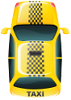
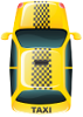
Pthreads and gui for the lane detection routine is done.
Images has been modified to be centered in the lane

diff --git a/graphic-highway/vehicle.cpp b/graphic-highway/vehicle.cpp
@@ -14,8 +14,10 @@ struct vehicle_t createVehicle(int type, int max_speed)
 
 	//Initialize lane and position, which will be changed by the go function
 	vehicle.position.lane = 0;
-	//0 is the center of the lane, -1 left, 1 right, -2 or 2 lane overpassed (so the system failed)
-	vehicle.position.x_pos = 0;
+	//1 is the center of the lane, 0 left, 2 right, 3 lane overpassed (so the system failed)
+	vehicle.position.x_pos = 1;
+	//vehicle.position.x_pos = 0;
+
 	vehicle.position.y_pos = -1;
 
 	vehicle.should_correct_alignment = false;
@@ -25,7 +27,7 @@ struct vehicle_t createVehicle(int type, int max_speed)
 
 void position_switch(int vehicle_id, struct highway_t *h, int lane)
 {
-	int lane_vehicle, x_pos, y_pos, new_y_pos, actual_speed, random_int;
+	int lane_vehicle, x_pos, y_pos, new_x_pos, new_y_pos, actual_speed, random_int;
 	struct position_t pos_vehicle;
 
 	pos_vehicle = h->vehicles[vehicle_id].position;
@@ -34,27 +36,35 @@ void position_switch(int vehicle_id, struct highway_t *h, int lane)
 	y_pos = pos_vehicle.y_pos; //-1 initially
 
 	//random between 1 and 10
-	random_int = rand() % 10 + 1;
-	if(random_int < 8)
+	random_int = rand() % 500 + 1;
+	if(random_int < 5)
 	{
-		switch(pos_vehicle.x_pos)
+		//if it is in 1 or 3 and the vehicle haven't detected the disalignment,
+		//the system have failed
+		switch(x_pos)
 		{
-		case -1:
-			x_pos = x_pos -1;
+		case 0:
+			new_x_pos = 3;
+			break;
+		case 2:
+			new_x_pos = 3;
 			break;
 		case 1:
-			x_pos = xpos + 1;
-			break;
-		case 0:
-			x_pos = (random_int > 4) ? -1 : 1;
+			new_x_pos = (random_int > 2) ? 0 : 2;
 		}
+	}
+	else
+	{
+		new_x_pos = x_pos;
 	}
 
 	if(h->vehicles[vehicle_id].should_correct_alignment)
 	{
-		x_pos = 0;
+		new_x_pos = 1;
 		h->vehicles[vehicle_id].should_correct_alignment = false;
 	}
+
+	//new_x_pos = 1;
 
 	actual_speed = h->vehicles[vehicle_id].actual_speed;
 
@@ -66,27 +76,29 @@ void position_switch(int vehicle_id, struct highway_t *h, int lane)
 	{
 		h->road[lane_vehicle][x_pos][y_pos] = -1;
 	}
-	h->road[lane][x_pos][new_y_pos] = vehicle_id; //updating the new position in the road's array
+	h->road[lane][new_x_pos][new_y_pos] = vehicle_id; //updating the new position in the road's array
 
 	if(h->vehicles[vehicle_id].type == TRUCK)
 	{
 		h->road[lane_vehicle][x_pos][y_pos+1] = -1;
-		h->road[lane][x_pos][new_y_pos+1] = vehicle_id;
+		h->road[lane][new_x_pos][new_y_pos+1] = vehicle_id;
 	}
 
 	h->vehicles[vehicle_id].position.lane = lane;
+	h->vehicles[vehicle_id].position.x_pos = new_x_pos;
 	h->vehicles[vehicle_id].position.y_pos = new_y_pos;
 	printf("PS Movimento veicolo %d nella posizione: (%d, %d) corsia %d, a velocità: %d\n",
-		   vehicle_id, pos_vehicle.x_pos, h->vehicles[vehicle_id].position.y_pos,
+		   vehicle_id, h->vehicles[vehicle_id].position.x_pos, h->vehicles[vehicle_id].position.y_pos,
 		   h->vehicles[vehicle_id].position.lane, h->vehicles[vehicle_id].actual_speed);
 }
 
 //Check if there is a vehicle in front on a specific lane, and return its id
 int check_front(int vehicle_id, struct highway_t *h, int lane_to_check, bool for_the_start)
 {
-	int i, index_to_check, x_pos, y_pos, lane_vehicle, distance_to_check;
-	int front_vehicle_id = -1;
+	int i, j, index_to_check, to_add, x_pos, y_pos, lane_vehicle, distance_to_check;
 	struct position_t pos_vehicle;
+	int front_vehicle_id = -1;
+	bool exit_for = false;
 
 	pos_vehicle = h->vehicles[vehicle_id].position;
 	//x_pos = pos_vehicle.x_pos;
@@ -94,11 +106,64 @@ int check_front(int vehicle_id, struct highway_t *h, int lane_to_check, bool for
 	y_pos = pos_vehicle.y_pos; //-1
 	lane_vehicle = pos_vehicle.lane;
 
-	distance_to_check = h->vehicles[vehicle_id].min_security_distance+12;
+	to_add = (lane_to_check < lane_vehicle) ? 15 : 12;
+	//to_add = (lane_to_check != lane_vehicle) ? 15 : 12;
+	distance_to_check = h->vehicles[vehicle_id].min_security_distance+to_add;
+	//distance_to_check = h->vehicles[vehicle_id].min_security_distance+4;
 
 	//If I'm checking the right lane, I should consider also the possible vehicles behind me
+	//i = (lane_to_check < lane_vehicle) ? -2 : 1;
 	i = (lane_to_check < lane_vehicle) ? -2 : 1;
-	for(i; i <= distance_to_check; i++)
+	//i = (lane_to_check != lane_vehicle) ? -2 : 1;
+
+	for(i; !exit_for && i <= distance_to_check; i++)
+	{
+		index_to_check = y_pos+i;
+		for(j = 0; j < 4; j++)
+		{
+			if(h->road[lane_to_check][j][index_to_check] != -1 && h->road[lane_to_check][j][index_to_check] != vehicle_id)
+			{
+				front_vehicle_id = h->road[lane_to_check][j][index_to_check];
+
+				if(!for_the_start)
+				{
+					printf("Check Front Veicolo %d: Nella posizione %d, a distanza %d da me,  c'è %d \n", vehicle_id, index_to_check, i, h->road[lane_to_check][x_pos][index_to_check]);
+				}
+				else
+				{
+					printf("In posizione %d c'è già %d \n", index_to_check, h->road[lane_to_check][j][index_to_check]);
+				}
+
+				exit_for = true;
+			}
+		}
+	}
+	return front_vehicle_id;
+}
+
+int check_front_no_ubriaco(int vehicle_id, struct highway_t *h, int lane_to_check, bool for_the_start)
+{
+	int i, j, to_add, index_to_check, x_pos, y_pos, lane_vehicle, distance_to_check;
+	struct position_t pos_vehicle;
+	int front_vehicle_id = -1;
+	bool exit_for = false;
+
+	pos_vehicle = h->vehicles[vehicle_id].position;
+	//x_pos = pos_vehicle.x_pos;
+	x_pos = 1; //should be managed...
+	y_pos = pos_vehicle.y_pos; //-1
+	lane_vehicle = pos_vehicle.lane;
+
+	to_add = (lane_to_check < lane_vehicle) ? 15 : 12;
+	//to_add = (lane_to_check != lane_vehicle) ? 15 : 12;
+	distance_to_check = h->vehicles[vehicle_id].min_security_distance+to_add;
+	//distance_to_check = h->vehicles[vehicle_id].min_security_distance+4;
+
+	//If I'm checking the right lane, I should consider also the possible vehicles behind me
+	//i = (lane_to_check < lane_vehicle) ? -2 : 1;
+	i = (lane_to_check < lane_vehicle) ? -2 : 1;
+	//i = (lane_to_check != lane_vehicle) ? -2 : 1;
+	for(i; !exit_for && i <= distance_to_check; i++)
 	{
 		index_to_check = y_pos+i;
 		if(h->road[lane_to_check][x_pos][index_to_check] != -1 && h->road[lane_to_check][x_pos][index_to_check] != vehicle_id)
@@ -114,8 +179,9 @@ int check_front(int vehicle_id, struct highway_t *h, int lane_to_check, bool for
 				printf("In posizione %d c'è già %d \n", index_to_check, h->road[lane_to_check][x_pos][index_to_check]);
 			}
 
-			break; //maybe not safety for RT
+			exit_for = true;
 		}
 	}
 	return front_vehicle_id;
 }
+

diff --git a/graphic-highway/threads_controller.cpp b/graphic-highway/threads_controller.cpp
@@ -53,8 +53,7 @@ void go(int vehicle_id, struct highway_t *h)//BLOCCANTE
 
 	while(vehicle_id != h->next_vehicle)
 	{
-		pthread_cond_signal(&h->priv_Vehicle[h->next_vehicle]);//FORSE TROPPO FORZATO COSI...
-
+		//pthread_cond_signal(&h->priv_Vehicle[h->next_vehicle]);//FORSE TROPPO FORZATO COSI...
 		pthread_cond_wait(&h->priv_Vehicle[vehicle_id], &h->mutex);
 	}
 
@@ -63,7 +62,8 @@ void go(int vehicle_id, struct highway_t *h)//BLOCCANTE
 		h->highway_start = true;
 	}
 
-	if(y_pos < 5)//Check that should be done for the first portion of road
+	//if(y_pos == -1)
+	if(y_pos < 5)//Check that should be done for the first portion of the road
 	{
 		can_start = check_front(vehicle_id, h, lane_vehicle, true);
 
@@ -139,6 +139,7 @@ void check_front_distance(int vehicle_id, struct highway_t *h)//MAI BLOCCANTE
 
 	pos_vehicle = h->vehicles[vehicle_id].position;
 
+	//if(pos_vehicle.y_pos != -1)
 	if(pos_vehicle.y_pos > 4)//if we are already going
 	{
 
@@ -150,7 +151,7 @@ void check_front_distance(int vehicle_id, struct highway_t *h)//MAI BLOCCANTE
 
 			if(h->vehicles[vehicle_id].speed_limited)
 			{
-				h->vehicles[nearest_vehicle_in_front].speed_limited = 0;
+				h->vehicles[vehicle_id].speed_limited = 0;
 			}
 
 			//Check if I can turn right
@@ -170,7 +171,9 @@ void check_front_distance(int vehicle_id, struct highway_t *h)//MAI BLOCCANTE
 			}
 		}
 		else if(h->vehicles[vehicle_id].can_overtake
-				&& h->vehicles[nearest_vehicle_in_front].actual_speed < h->vehicles[vehicle_id].actual_speed) //A vehicle is near and I'm a car or motorcycle
+				&& (h->vehicles[nearest_vehicle_in_front].actual_speed < h->vehicles[vehicle_id].actual_speed
+					|| h->vehicles[vehicle_id].speed_limited)
+				) //A vehicle is near and I'm a car or motorcycle
 		{
 			how_close = pos_vehicle.y_pos - h->vehicles[nearest_vehicle_in_front].position.y_pos;
 			printf("A distanza %d, c'è %d, cerco di superarlo...\n", how_close, nearest_vehicle_in_front);
@@ -186,12 +189,12 @@ void check_front_distance(int vehicle_id, struct highway_t *h)//MAI BLOCCANTE
 				//Adapt the speed
 				speed_to_adapt = h->vehicles[nearest_vehicle_in_front].actual_speed;
 				h->vehicles[vehicle_id].actual_speed = speed_to_adapt;
-				h->vehicles[nearest_vehicle_in_front].speed_limited = 1;
+				h->vehicles[vehicle_id].speed_limited = 1;
 			}
 			else
 			{
 				//overtake
-				h->vehicles[nearest_vehicle_in_front].speed_limited = 0;
+				h->vehicles[vehicle_id].speed_limited = 0;
 				h->vehicles[vehicle_id].movement_type = OVERTAKE;
 
 			}
@@ -223,12 +226,12 @@ void lane_detection(int vehicle_id, struct highway_t *h)//MAI BLOCCANTE
 	pos_vehicle = h->vehicles[vehicle_id].position;
 	lane_vehicle = pos_vehicle.lane;
 
-	//0 is the center of the lane, -1 left, 1 right
+	//1 is the center of the lane, 0 left, 2 right
 	x_pos = pos_vehicle.x_pos;
 	y_pos = pos_vehicle.y_pos;
 
-	//if x_pos is -1 or 1, so not in the middle of the lane, the position should be corrected
-	if(x_pos != 0)
+	//if x_pos is 0 or 2, so not in the middle of the lane, the position should be corrected
+	if(x_pos != 1)
 	{
 		h->vehicles[vehicle_id].should_correct_alignment = true;
 	}
@@ -264,8 +267,8 @@ void *go_routine(void *id)
 	for (;;) {
 		printf("Go, veicolo %d\n", vehicle_id);
 		go(vehicle_id,&highway);
-		pausetta(100);
-		//pausetta(200);
+		//pausetta(100);
+		pausetta(160);
 		//pausetta(500);
 	}
 }
@@ -277,21 +280,22 @@ void *check_front_distance_routine(void *id)
 	for (;;) {
 		printf("Veicolo %d: controllo distanza\n", vehicle_id);
 		check_front_distance(vehicle_id,&highway);
-		pausetta(50);
-		//pausetta(100);
+		//pausetta(50);
+		pausetta(80);
 		//pausetta(250);
 	}
 
 }
 
-void *lane_detection_routine(void id)
+void *lane_detection_routine(void *id)
 {
 	long vehicle_id = (long) id;
 	//starting the routine
 	for (;;) {
 		printf("Vehicle %d: lane detection routine\n", vehicle_id);
 		lane_detection(vehicle_id,&highway);
-		pausetta(150);
+		//pausetta(200);
+		pausetta(200);
 	}
 }
 
@@ -322,6 +326,7 @@ void initThreads()
   {
 	  pthread_create(&p, &attr, go_routine, (void *)i);
 	  pthread_create(&p, &attr, check_front_distance_routine,  (void *)i);
+	  pthread_create(&p, &attr, lane_detection_routine,  (void *)i);
   }
 
   pthread_attr_destroy(&attr);

diff --git a/graphic-highway/Graphics/highway_gui.cpp b/graphic-highway/Graphics/highway_gui.cpp
@@ -22,11 +22,11 @@ void HighwayGui::start(){
 		{
 			image = QImage(":/images/img/truck.png");
 		}
-		else if(i<25)
+		else if(i<23)
 		{
 			image = QImage(":/images/img/motorcycle.png");
 		}
-		else if(i == 40)
+		else if(i == 25)
 		{
 			image = QImage(":/images/img/car_blue.png");
 		}
@@ -78,13 +78,19 @@ void HighwayGui::vehicleStart(int vehicle_id)
 	vehicles[vehicle_id]->setPos(scene->width()-350, scene->height());
 
 	scene->addItem(vehicles[vehicle_id]);
-	if(vehicle_id == 40)
+	//if(vehicle_id == 40)
+	if(vehicle_id == 20)
 		car_entered = true;
 }
 
 void HighwayGui::moveVehicle(int vehicle_id, int lane, int x_pos, int y_pos)
 {
 	int x, y;
+
+	if(x_pos == 3)//The vehicle have overpassed the limit of the lane
+	{
+		//fermare tutto e mostrare schermata failed
+	}
 
 	if(y_pos == 0)
 	{
@@ -111,8 +117,26 @@ void HighwayGui::moveVehicle(int vehicle_id, int lane, int x_pos, int y_pos)
 			break;
 		}
 
-		y = scene->height()-(y_pos*30);
+		switch(x_pos)
+		{
+		case 1:
+			x = x;
+			break;
+		case 0:
+			x = x - 33;
+			break;
+		case 2:
+			x = x + 33;
+			break;
+		case 3:
+			x = x - 66;
+			break;
+		case 4:
+			x = x + 66;
+			break;
+		}
 
+		y = scene->height()-(y_pos*30);
 		vehicles[vehicle_id]->setPos(x, y);
 
 
@@ -121,7 +145,7 @@ void HighwayGui::moveVehicle(int vehicle_id, int lane, int x_pos, int y_pos)
 	if(car_entered)
 	{
 		//Adjust the scrollbar if the followed vehicle is near to pass the view zone
-		int diff = this->verticalScrollBar()->value() - vehicles[40]->pos().y();
+		int diff = this->verticalScrollBar()->value() - vehicles[20]->pos().y();
 
 			if(diff > 200)
 			{
